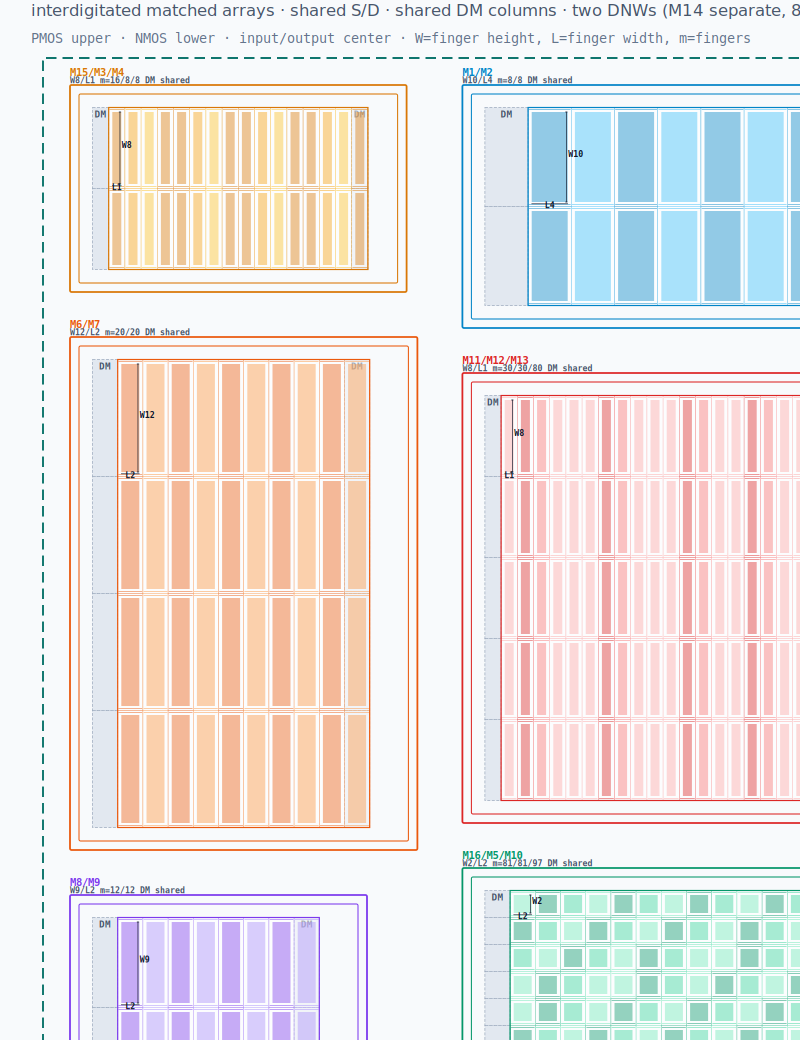
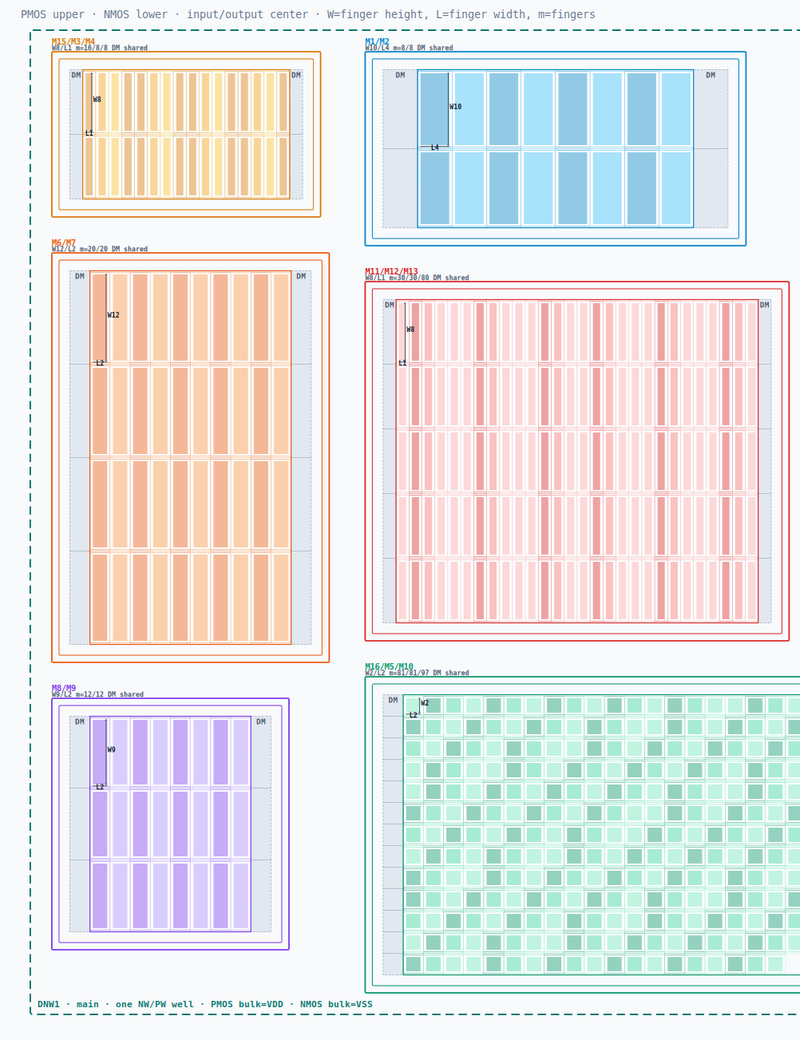
fix: draw right-side shared DM columns at array edge

diff --git a/examples/classa_opamp/make_white_line.py b/examples/classa_opamp/make_white_line.py
@@ -137,7 +137,7 @@ def draw_group(g):
     cy = gy + RING_W + RING_GAP
     # shared dummy columns
     for side in (-1, 1):
-        dx = cx if side < 0 else cx + a["aw"]
+        dx = cx if side < 0 else cx + a["fw"] + a["aw"]
         for r in range(a["rows"]):
             rect(dx, cy + r*a["fh"], a["fw"], a["fh"], fill="#e2e8f0", stroke="#94a3b8", sw=0.45, dash="2 1")
             if r == 0:
